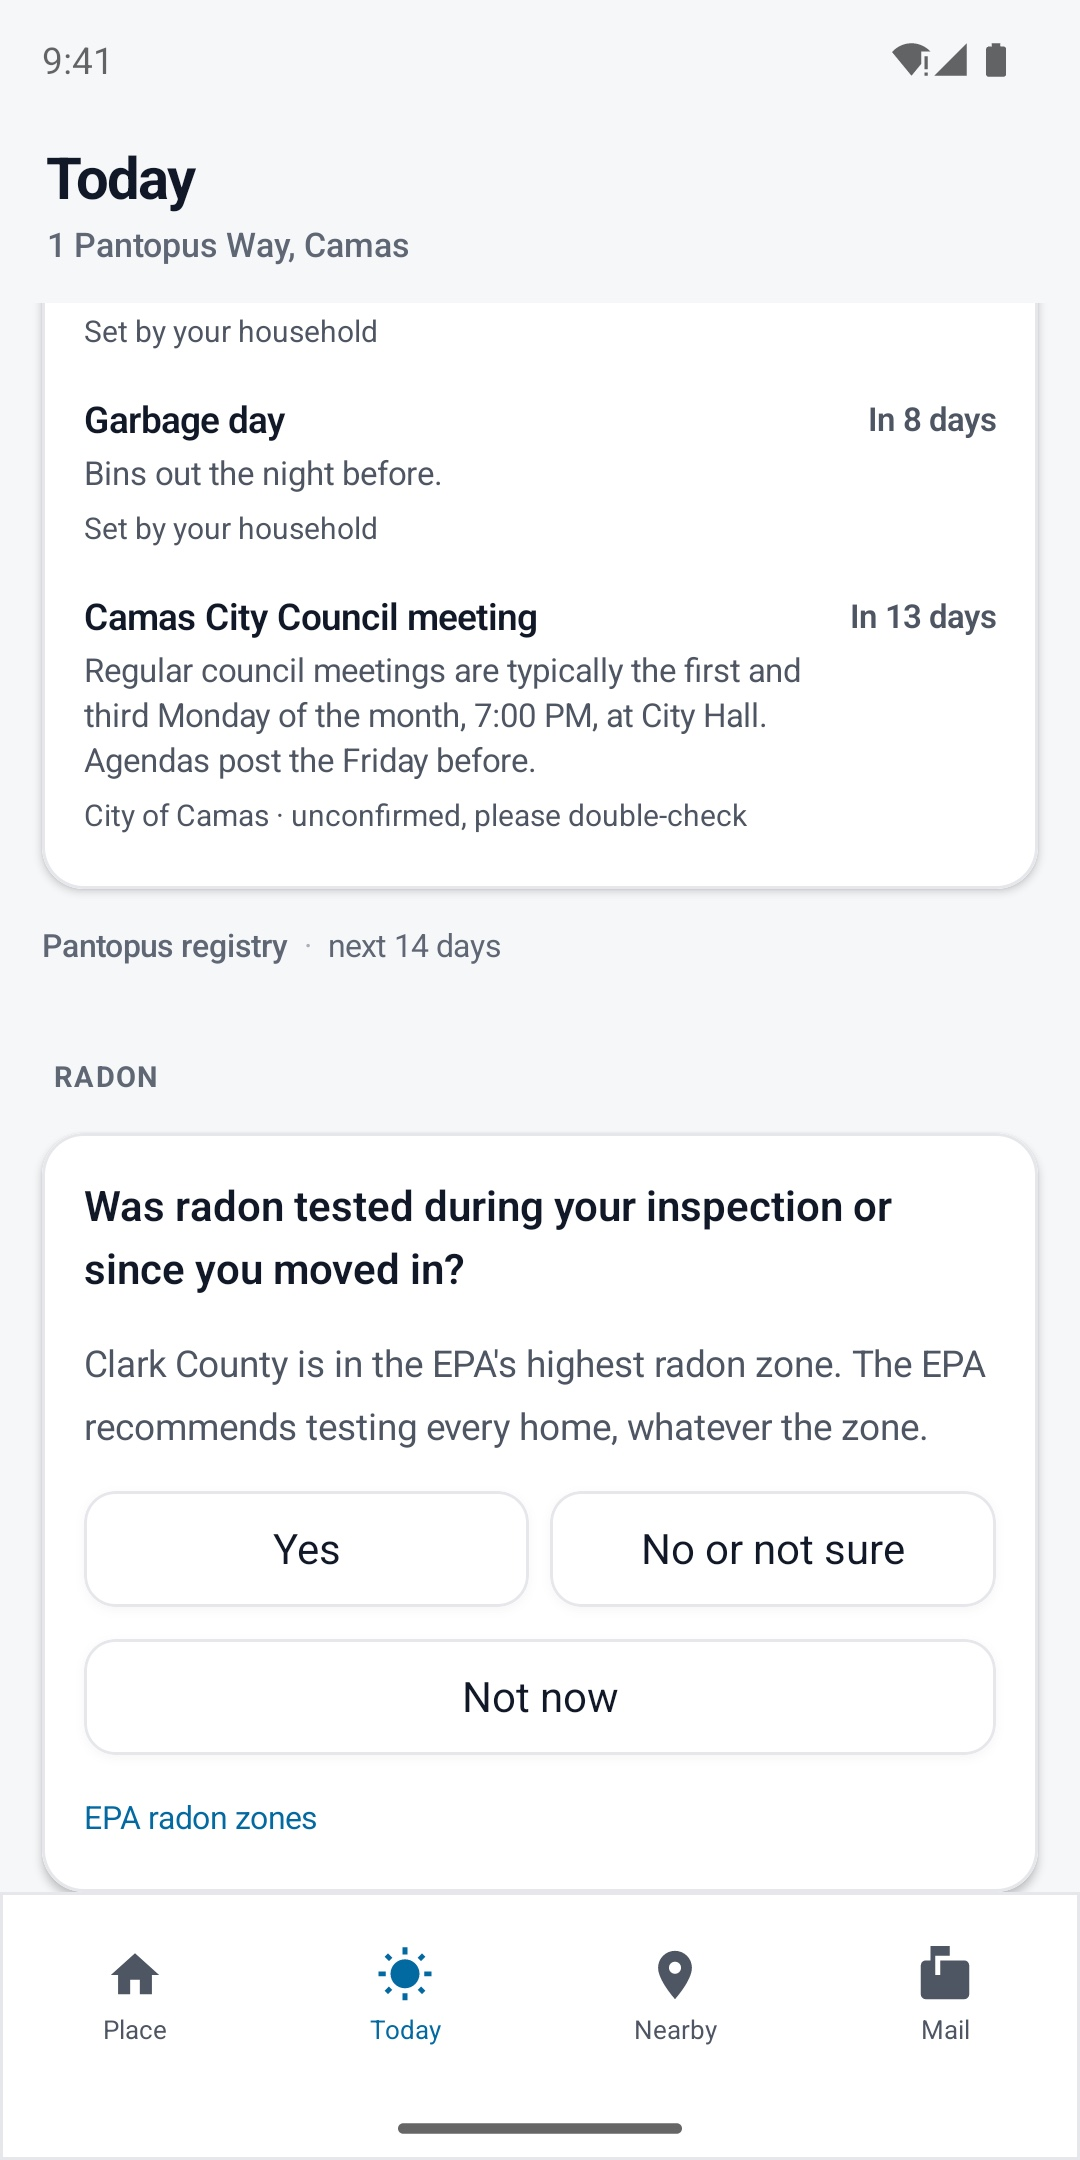
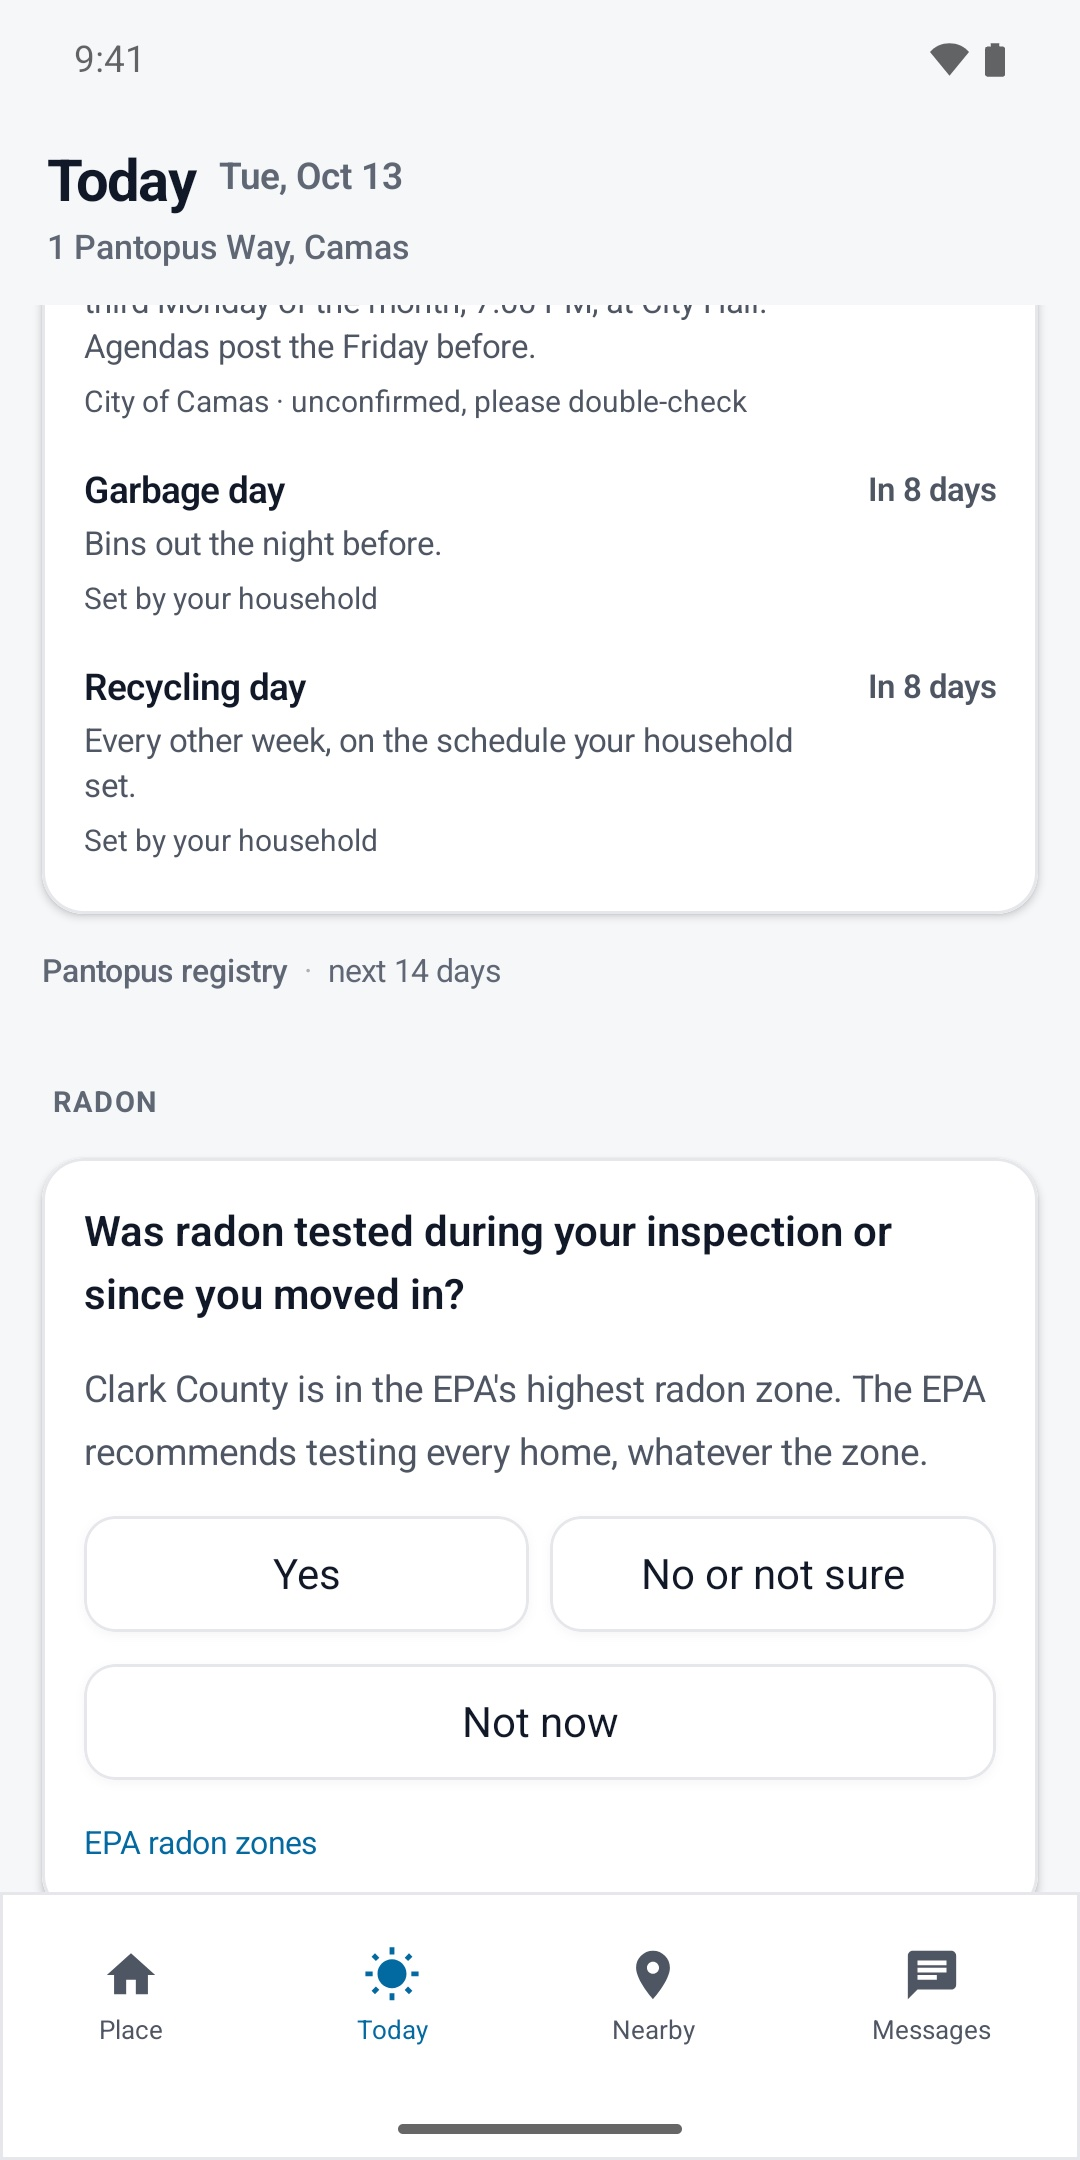
Store screenshots: approved Android set (Messages tab, new Place header)
The founder approved the four Android Play screenshots retaken on October 13
with the screenshots account: Your Place, Today, pickups and radon, and
household tasks. 1080 x 2160, JPEG quality 85, demo status bar.

diff --git a/NEXT_STEPS.md b/NEXT_STEPS.md
@@ -238,7 +238,7 @@ A checked subitem means the named implementation or local check is complete; a p
   - [x] October 14, recheck after IS-Android's last ten fixes (PRs 2178 and 2182 among them) and the first Pulse changes, which have no flag. Android Release: 180 app links with no crash; in airplane mode it opens the saved Place, Today and Messages without contacting the server; switching accounts shows none of the previous person's chats; chat photos load; TalkBack names every control; dark mode stays light and readable; the first-week card's count now matches its steps. At the largest font the new Place header shortens the title to "Your Pl…". iOS Release: 179 app links with no crash; the Pulse feed, posts and notifications open; with the server unreachable it opens the saved Place, Today and Messages. Production web: the same result as October 13 on all 180 pages for three accounts, and all 133 launch-cut pages redirect away.
   - [ ] Open with owners, no session running: on iOS and Android the Place pulse shows a weather alert's full text and fills the first screen during alerts (L1); on iOS, My Homes shows placeholders when it is reopened while offline (Home owner).
   - [ ] Complete Android map acceptance. Household pins now use the stored coordinates (PR 2180), and Android keeps only public map copies and rechecks Home access on each visit (PR 2181); both merged October 13. The local Maps SDK key is still empty, so tiles, pin selection and camera gestures stay unverified until you supply an approved SDK key.
-  - [ ] Retake store screenshots showing Messages; the October 7 approved set shows Mail. The five iPhone shots were retaken and you approved them on October 13 (PR 2230); Your Place now shows the Ballot card, which L4 retakes after the November 3 election. The Place root (PR 2189) then changed the Your Place header; L4 retook that iPhone shot and you approved it on October 14. The Android set was retaken on October 13 and waits for your approval. Physical-iPhone airplane-mode launch remains a founder check.
+  - [ ] Retake store screenshots showing Messages; the October 7 approved set shows Mail. The five iPhone shots were retaken and you approved them on October 13 (PR 2230); Your Place now shows the Ballot card, which L4 retakes after the November 3 election. The Place root (PR 2189) then changed the Your Place header; L4 retook that iPhone shot and you approved it on October 14. The Android set was retaken on October 13 and you approved it on October 14. Physical-iPhone airplane-mode launch remains a founder check.
   - [x] October 6: every reachable web page on the production build opened as a homeowner, a new user and a non-member (198 pages; three old /app addresses crashed and are fixed in PR 1655); every route opened as an app link on Android and, signed out, on iOS with no crashes; signed-in Lighthouse: performance 72–77, accessibility 93–100.
   - [x] October 6 evening, web on that day's master: the 198 pages again with no crash; accessibility median 100 with fewer failing checks than the morning (the rest went to L3); every click target reachable with the keyboard once PR 1707 made the Place cards focusable.
   - [x] October 6, iOS signed in as a homeowner: VoiceOver names every control on the four tabs, dark mode reads correctly, the tabs fit an iPhone SE, and with the server unreachable each tab says so, offers a retry and recovers when it's back. Two Place-tab issues went to L1: its section rows aren't announced as buttons, and re-tapping the Place tab icon shows the older hub screen (switching tabs brings Your Place back since PR 1678). Both fixed (PRs 1696 and 1697) and rechecked on the October 7 iOS Release build.
